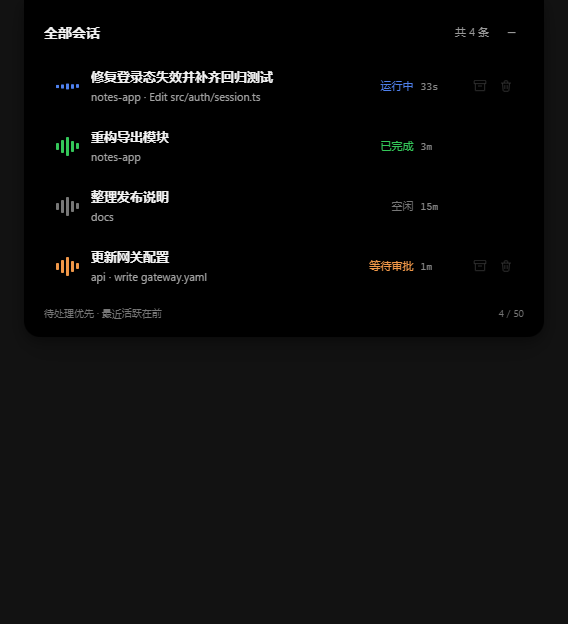
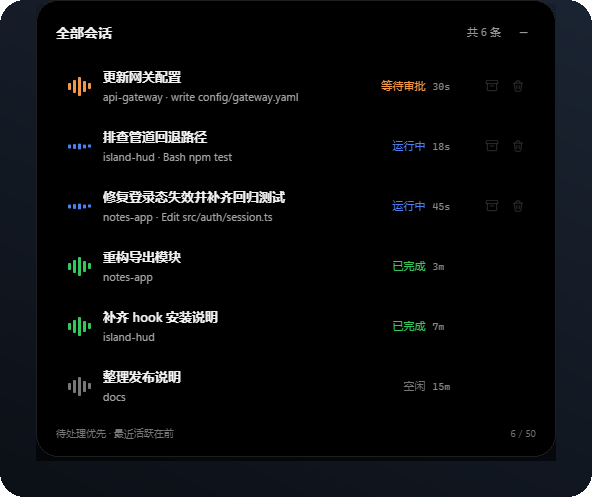
docs: redesign README layout with ZCode support and refreshed screenshots (#5)

diff --git a/README.md b/README.md
@@ -1,38 +1,95 @@
+<div align="center">
+
+<img src="build/icon-256.png" width="88" alt="Island HUD 图标" />
+
 # Island HUD
 
-**Island HUD** 是一个 Windows 顶部悬浮岛式 HUD，当前支持 DeepSeek Harness（下称 DSH）与 ZCode 两类本机编码代理。它以紧凑的岛形卡片常驻屏幕顶部，实时显示会话状态；需要你决策时自动展开审批或问答卡片，确认、拒绝、选择都在岛上完成，不必切回终端窗口。
+**Windows 顶部的悬浮岛式 HUD —— 让 DeepSeek Harness 与 ZCode 的会话、审批和问答，一直待在你的视野边缘。**
 
-Island HUD 由桌面应用与两类集成组成：DSH 通过原生插件接入，ZCode 通过 hook 配置接入。集成把客户端的会话状态、待处理请求与处理结果送给应用，应用通过只监听本机回环地址的通道接收并回传，不经过任何公网服务。
+<p>
+  <a href="https://github.com/Angelyeye/island-hud/actions/workflows/ci.yml"><img src="https://github.com/Angelyeye/island-hud/actions/workflows/ci.yml/badge.svg" alt="CI" /></a>
+  <img src="https://img.shields.io/github/package-json/v/Angelyeye/island-hud?style=flat-square&label=version&color=4d6bfe" alt="version" />
+  <img src="https://img.shields.io/badge/license-AGPL--3.0--only-3da639?style=flat-square" alt="license" />
+  <img src="https://img.shields.io/badge/platform-Windows%2010%20%7C%2011-0078d6?style=flat-square&logo=windows&logoColor=white" alt="Windows" />
+  <img src="https://img.shields.io/badge/node-%E2%89%A5%2024-339933?style=flat-square&logo=node.js&logoColor=white" alt="Node.js" />
+</p>
 
-> **非官方声明**：本项目是独立的社区开源项目，与 DeepSeek 及其他任何产品、公司、团队均无关联，也未获得任何形式的背书、授权或支持。
+<p>
+  <a href="#界面预览">界面预览</a> ·
+  <a href="#支持的客户端">支持的客户端</a> ·
+  <a href="#功能特性">功能特性</a> ·
+  <a href="#快速开始">快速开始</a> ·
+  <a href="#安装集成">安装集成</a> ·
+  <a href="#工作原理与隐私">工作原理与隐私</a> ·
+  <a href="#参与贡献">参与贡献</a>
+</p>
+
+</div>
+
+岛形卡片常驻屏幕顶部，空闲时收成一条窄边。需要你决策时，它自动展开成审批或问答卡片 —— 允许一次、拒绝、或者选一个答案，都在岛上完成，不必切回终端翻找那个正在等你的窗口。
+
+它把 **DeepSeek Harness（下称 DSH，原生插件接入）** 与 **ZCode（hook 配置接入）** 的会话合并在同一个列表里：同一个岛上，两类客户端的运行状态、待处理请求和完成结果一视同仁。
+
+> [!IMPORTANT]
+> **非官方声明**：Island HUD 是独立的社区开源项目，与 DeepSeek、ZCode 及其他任何产品、公司、团队均无关联，也未获得任何形式的背书、授权或支持。
+
+<p align="center">
+  <img src="screenshots/approval.png" width="592" alt="在岛上处理权限请求" />
+  <br />
+  <sub>权限请求直接在岛上等待决策：允许一次、拒绝或返回客户端，会话在后台继续。</sub>
+</p>
+
+---
 
 ## 界面预览
 
-| 总览 | 全部会话 | 设置 |
-| --- | --- | --- |
-| ![总览](screenshots/overview.png) | ![全部会话](screenshots/sessions.png) | ![设置](screenshots/settings.png) |
+<p align="center">
+  <img src="screenshots/overview.png" width="300" alt="会话总览" />
+  &nbsp;&nbsp;
+  <img src="screenshots/sessions.png" width="300" alt="全部会话" />
+  <br />
+  <sub>左：总览卡片，运行中 / 等待审批 / 已完成 / 空闲一眼可见。右：全部会话，待处理优先、最近活跃在前。</sub>
+</p>
+
+<p align="center">
+  <img src="screenshots/settings.png" width="620" alt="集成设置" />
+  <br />
+  <sub>设置页 · 集成：DSH 与 ZCode 各自显示连接状态、版本，安装 / 修复 / 卸载只需一次点击。</sub>
+</p>
+
+## 支持的客户端
+
+| 客户端 | 接入方式 | 会话状态 | 权限审批 | 多题问答 | 会话跳转 |
+| --- | --- | :--: | :--: | :--: | --- |
+| **DeepSeek Harness** | 本机原生插件 | ✅ | ✅ | ✅ 支持 timed 非阻塞 | 精确定位到对应会话 |
+| **ZCode** | 写入 hook 配置 | ✅ | ✅ | ✅ 答案经审批面回传（实验性） | 打开会话所在项目目录 |
+
+两类客户端共用同一套回环通道与同一块岛，列表里按待处理优先、最近活跃在前排序；同一客户端有多个会话时，最多同时展示 50 条。
 
 ## 功能特性
 
-- **会话状态**：展示当前会话、项目与运行状态，空闲时自动收起为窄条。
-- **单次审批**：允许、拒绝、取消权限请求，结果同步回 DSH / ZCode。
-- **多题问答**：单选、多选、自由文本，支持逐题草稿与中文输入法。
-- **精确跳转**：从卡片直接跳到对应的 DSH 会话；ZCode 会话打开其项目目录。
-- **归档与删除**：在本机隐藏不需要的会话，不删除客户端数据，可随时恢复。
-- **多会话浏览**：岛上最多同时展示 50 条会话（待处理与运行中优先），全部会话面板为紧凑滚动列表。
-- **中文设置**：面板密度（520px / 440px 两档）、内容字号、最大高度、主题与实时预览。
-- **非阻塞接续**：面板收起后请求仍在后台等待，可稍后继续回答。
-
-## 系统要求
-
-- Windows 10 / 11（x64）
-- Node.js 24（自带 npm；ZCode 集成的 hook 脚本同样由 `node` 执行）
-- DeepSeek Harness 0.2.1-rc.2（实测版本；更早版本可能无法安装插件）
-- ZCode CLI（hook 已可用即可，无需额外配置）
-- Electron 33.4.11（已在 `package.json` 中精确锁定）
-- 可用的 .NET Framework 4 C# 编译器（用于构建管道助手，Windows 自带）
+| ◉ 一眼看清 | ⚡ 就地决策 | 🗂 顺手管理 |
+| --- | --- | --- |
+| **会话状态**：当前会话、项目、当前工具与运行状态，空闲时自动收起为窄条。<br>**完成提醒**：任务结束给一次轻提示，点开即是本轮摘要。<br>**多会话浏览**：待处理与运行中优先，全部会话面板为紧凑滚动列表。 | **单次审批**：允许一次、拒绝、返回客户端，结果原路回传给 DSH / ZCode。<br>**多题问答**：单选、多选、自由文本，逐题保存草稿，兼容中文输入法。<br>**非阻塞接续**：卡片收起后请求仍在后台等待，稍后回答也不迟。 | **精确跳转**：点卡片直接进入 DSH 会话；ZCode 会话打开其项目目录。<br>**归档与删除**：只在本机隐藏，不删除客户端数据，随时可恢复。<br>**外观可调**：面板密度、字号、最大高度、主题，设置页内实时预览。 |
 
 ## 快速开始
+
+### 直接使用发布版
+
+公开产物见 [Releases](https://github.com/Angelyeye/island-hud/releases)。每个版本提供：
+
+| 文件 | 说明 |
+| --- | --- |
+| `IslandHUD-<版本>-DSH-portable-x64.zip` | 便携版，解压后直接运行 `IslandHUD.exe`，无需安装 Node.js |
+| `IslandHUD-<版本>-DSH-Setup-x64.exe` | NSIS 安装器，当前用户安装，支持覆盖升级与卸载 |
+| `SHA256SUMS.txt` | 所有产物的 SHA-256 校验值 |
+
+> [!NOTE]
+> 目前公开 Release 为 **v0.1.0**（仅 DSH）；**ZCode 支持已合入 `main`（v0.2.0）**，发布产物上线后本节会同步更新。想立刻体验 ZCode，请按下一节从源码运行。
+
+发布产物**尚未做代码签名**，Windows SmartScreen 可能提示未知发布者。请先用 `Get-FileHash` 核对 `SHA256SUMS.txt` 再运行；签名进度见 [代码签名策略](#代码签名策略)。
+
+### 从源码运行
 
 ```powershell
 git clone https://github.com/Angelyeye/island-hud.git
@@ -42,94 +99,153 @@ npm run build:helpers
 npm start
 ```
 
-- `npm ci` 按锁文件安装依赖；若 Electron 二进制下载受限，可临时设置 `$env:ELECTRON_MIRROR` 指向镜像。
-- `npm run build:helpers` 用 `tools/pipe-host.cs` 编译管道助手到 `src/tools/`，源码变更后会自动重建。
-- `npm start` 是**隔离开发模式**：使用独立的 `work/development` 配置与数据目录，不会改动你正在使用的 DSH / ZCode 配置和模型权限。正式使用请在设置中安装对应集成。
+- `npm ci` 严格按锁文件安装依赖；Electron 二进制下载受限时，可临时设置 `$env:ELECTRON_MIRROR` 指向镜像。
+- `npm run build:helpers` 调用 Windows 自带的 .NET Framework 4 编译器，把 `tools/pipe-host.cs` 编译成管道助手；源码变更后会自动重建。
+- `npm start` 是**隔离开发模式**：使用独立的 `work/development` 配置与数据目录，不会改动你正在使用的 DSH / ZCode 配置与模型权限。正式使用请在设置页安装对应集成。
 
-## 安装 DSH 插件
+**环境要求**：Windows 10 / 11（x64）、Node.js 24（自带 npm）、Electron（版本由 `package.json` 精确锁定）、可用的 `csc.exe`（用于构建管道助手）。
 
-1. 启动 Island HUD（开发模式或打包版均可）。
-2. 在任务栏托盘图标上右键，选择「设置…」。
-3. 打开「集成」页，确认 DSH 状态为可连接。
-4. 点击「安装 / 修复」，等待提示写入完成（每次操作都会先备份现有配置）。
-5. 重启 DSH，让插件生效。
+## 安装集成
 
-卸载时回到同一页面点击「卸载集成」，不会删除 DSH 自身的会话数据。
+打开托盘图标右键菜单 →「设置…」，切到 **集成** 页。
 
-## 安装 ZCode 集成
+### DeepSeek Harness
 
-1. 启动 Island HUD，打开「设置… → 集成」页的 ZCode 卡片。
-2. 点击「安装 / 修复」：会把 Island HUD 的 hook 写入 ZCode 用户配置（`~/.zcode/cli/config.json`），写入前自动备份，只改动本集成添加的条目。
-3. 重新发起一个 ZCode 会话即可生效；会话状态、权限审批与提问会出现在岛上，直接在岛上「允许 / 拒绝」或回答。
+1. 确认 DSH 卡片状态为可连接。
+2. 点击「安装 / 修复」，等待写入完成；每次操作都会先备份现有配置。
+3. 正常重启 DSH 让插件生效。
+
+插件按受管方式写入 DSH 配置，卸载时点击「卸载集成」即可，不会删除 DSH 自身的会话数据。DSH 的插件扩展点尚未公开稳定，升级 DSH 后可能需要同步更新插件。
+
+### ZCode
+
+1. 确认 ZCode 卡片可点击，选择「安装 / 修复」。
+2. 安装把本集成添加的 hook 写入 ZCode 用户配置（`~/.zcode/cli/config.json`）：写入前自动备份，只改动本集成添加的条目。
+3. 重新发起一个 ZCode 会话即生效：会话状态、权限审批与提问会出现在岛上。
 4. 卸载时点击「卸载集成」，只移除本集成添加的 hook 条目。
 
 说明：
 
 - hook 脚本由 `node` 执行，请确保 Node.js 在 PATH 中。
-- 审批卡片打开期间，ZCode 的原生命令会等待岛上决策；退出 Island HUD 或长时间不响应时自动回退 ZCode 原生审批，不会卡住会话。
-- 只读工具（Read / Glob / Grep 等）与自动批准模式不会中转，行为与原来一致。
-- 若已安装其他会在 `PermissionRequest` 上阻塞的 hook（例如其他审批桥），两者会同时等待响应；设置页会提示冲突，请按需停用其一。
+- 审批卡片打开期间，ZCode 的原生命令会等待岛上决策；退出 Island HUD 或长时间不响应时自动回退 ZCode 原生审批，不会卡死会话。ZCode 审批 / 问答卡片最长可等待 24 小时。
+- 只读工具（Read / Glob / Grep 等）与自动批准模式不会中转，行为与原生一致。
+- 问答经审批面回传答案（`updatedInput`）属实验性协议，失败时自动回退 ZCode 原生界面。
+- 若还安装了其他会在 `PermissionRequest` 上阻塞的 hook（例如别的审批桥），两者会同时等待响应；设置页会提示冲突，按需停用其一。
 
-## 快捷键
+## 工作原理与隐私
+
+```text
+DSH 插件  ─┐                  ┌─ 顶部悬浮岛（会话 / 审批 / 问答）
+           ├─ 127.0.0.1 回环 ──┤
+ZCode hook ┘  一次性令牌校验    └─ 设置页 / 托盘 / 全局热键
+```
+
+- 桥接服务**只监听 `127.0.0.1`**，不监听局域网或公网地址，也不经过任何第三方服务。
+- 每次启动生成一次性 192-bit 本机令牌，仅保存在当前用户配置目录；请求必须携带令牌。
+- 配置目录与令牌文件的 ACL 在启动时收紧（`icacls`），管道助手使用显式 DACL，避免同机其他用户借用通道。
+- 应用**不收集遥测**，不做崩溃上报；唯一的联网行为是可关闭的更新检查（默认关闭）。
+- 集成安装前自动备份，且只修改本集成自己的条目，不改动你其他的插件或 hook。
+
+本机数据存放于 `%LOCALAPPDATA%\IslandHUD`：
+
+| 内容 | 说明 |
+| --- | --- |
+| 设置与集成描述符 | 解压一个描述文件即可接入，无需手工写端口 |
+| 归档 / 删除记录 | 只记录"在岛上隐藏"的会话键，最多保留 500 条 / 30 天；有新活动会自动恢复 |
+| 日志 | 诊断日志按大小轮转；复制诊断信息前请自行移除本机路径等个人信息 |
+
+## 快捷键与设置
 
 | 快捷键 | 作用 |
 | --- | --- |
-| `Ctrl+Alt+I` | 显示 / 隐藏悬浮岛 |
-| `Ctrl+Alt+O` | 展开 / 收起全部会话面板 |
-| `Esc` | 收起当前展开的面板 |
+| `Ctrl + Alt + I` | 显示 / 隐藏悬浮岛 |
+| `Ctrl + Alt + O` | 展开 / 收起全部会话面板 |
+| `Esc` | 收起当前展开的面板（不会拒绝或取消原请求） |
+| `Ctrl + Enter` | 问答检查页确认提交（输入法组合期间不触发） |
 
-右键托盘图标还可以重新居中、切换显示器、设置全屏自动隐藏、打开日志目录或复制诊断信息。
+托盘右键菜单还可以：重新居中、切换显示器、设置全屏自动隐藏、打开日志目录、复制诊断信息。设置页包含 **通用 / 显示与动效 / 集成 / 快捷键 / 诊断与关于** 五页，外观调整带实时预览。
+
+## 常见问题
+
+<details>
+<summary><b>ZCode 卡片一直显示「等待连接」？</b></summary>
+
+hook 由 `node` 执行：先确认 `node` 在 PATH 中，再重新发起一个 ZCode 会话（hook 在会话启动时加载）。如果刚装完还没开新会话，卡片会停留在等待状态，这是预期行为。
+</details>
+
+<details>
+<summary><b>为什么 Windows 提示「未知发布者」？</b></summary>
+
+当前产物未做代码签名，SmartScreen 可能拦截首次运行。请先核对 `SHA256SUMS.txt` 中的哈希，再选择"仍要运行"。项目正在申请 SignPath Foundation 的免费开源签名，通过后发布产物会逐步签名。
+</details>
+
+<details>
+<summary><b>会不会把会话内容上传到云端？</b></summary>
+
+不会。集成与应用之间只走本机回环通道；项目没有遥测和云同步。唯一的对外请求是可关闭的更新检查（只拉取版本清单）。
+</details>
+
+<details>
+<summary><b>归档或删除会话，会删掉客户端的数据吗？</b></summary>
+
+不会。归档与删除只影响岛上的显示：记录保存在本机，随时可在「诊断与关于」里恢复；客户端自己的会话文件、历史与 profile 都不变。
+</details>
+
+<details>
+<summary><b>支持 macOS / Linux、Claude Code 或其他客户端吗？</b></summary>
+
+当前只支持 Windows 10 / 11 上的 DSH 与 ZCode。其他系统与客户端不在支持范围内，也没有排期承诺。
+</details>
 
 ## 已知限制
 
-- DSH 的插件扩展点尚未公开稳定，DSH 升级后可能需要同步更新插件。
-- ZCode 集成依赖其 hook 配置格式，ZCode 升级后可能需要同步更新；问答经审批面回传属实验性协议。
-- 构建产物未做代码签名，Windows SmartScreen 可能提示风险。
+- DSH 的插件扩展点尚未公开稳定，DSH 升级后可能需要同步更新插件；ZCode 集成同理依赖其 hook 配置格式。
+- ZCode 问答经审批面回传属实验性协议，失败时回退原生界面。
+- 产物未签名，SmartScreen 可能提示风险。
 - 项目处于早期实验阶段，接口与界面仍可能调整。
-- 只支持 Windows + DSH / ZCode 组合；其他操作系统与其他客户端不在支持范围内。
-- 自动化测试覆盖 Node 层逻辑，GUI 与托盘行为需要在本地桌面手动验证。
+- 自动化测试覆盖 Node 层逻辑；GUI 与托盘行为需要真实桌面手动验证。
 
-## 目录结构
+## 测试与目录结构
+
+```powershell
+npm test          # Node 层单元与集成测试，CI 只跑这一项
+npm run test:ui   # 需要真实桌面的 GUI 检查
+npm run test:tray # 托盘菜单检查
+```
+
+<details>
+<summary><b>目录结构</b></summary>
 
 ```text
 island-hud/
 ├─ src/
-│  ├─ main.js            Electron 主进程：窗口、托盘、悬浮岛与全局快捷键
-│  ├─ preload.js         渲染进程与主进程之间的受控桥
-│  ├─ app/               应用生命周期、设置、集成管理与窗口行为
-│  ├─ bridge/            本机回环服务，接收并回传集成请求
-│  ├─ dsh/               DSH 适配层、会话管理与导航
-
-│  ├─ integrations/      DSH 插件包与 ZCode hook 的构建素材
-│  ├─ logs/              诊断日志
-│  ├─ probe/             测试与开发启动入口
-│  ├─ renderer/          悬浮岛与设置页界面
-│  ├─ sessions/          会话存储、归档与可见性
-│  ├─ tools/             运行时助手二进制（构建产物）
-│  └─ update/            更新检查
-├─ tools/                构建、打包、测试与发布脚本（含 C# 助手源码）
-├─ test/                 Node 层测试
-├─ screenshots/          README 界面截图
-├─ build/                打包配置与图标素材
-└─ integrations/         生成的 DSH 插件包与 ZCode hook 客户端
+│  ├─ main.js              Electron 主进程：窗口、托盘、悬浮岛与全局快捷键
+│  ├─ preload.js           渲染进程与主进程之间的受控桥
+│  ├─ app/                 应用生命周期、设置、DSH 与 ZCode 集成管理
+│  ├─ bridge/              本机回环服务，接收并回传集成请求
+│  ├─ dsh/                 DSH 适配层、会话管理与导航
+│  ├─ integrations/        DSH 插件包与 ZCode hook 的构建素材
+│  ├─ renderer/            悬浮岛与设置页界面
+│  ├─ sessions/            会话存储、归档与可见性
+│  ├─ tools/               运行时助手二进制（构建产物）
+│  └─ update/              更新检查
+├─ integrations/           生成的 DSH 插件包与 ZCode hook 客户端
+├─ tools/                  构建、打包、测试与发布脚本（含 C# 助手源码）
+├─ test/                   Node 层测试
+├─ screenshots/            README 界面截图
+├─ build/                  打包配置与图标素材
+└─ .github/                CI、DCO、Issue 模板与安全策略
 ```
-
-## 测试
-
-```powershell
-npm test
-```
-
-`npm test` 运行 Node 层的单元与集成测试，不需要打开窗口，CI 也只跑这一项。需要真实桌面环境的 GUI 与托盘检查请在本地执行：
-
-```powershell
-npm run test:ui
-npm run test:tray
-```
+</details>
 
 ## 参与贡献
 
-欢迎提交问题与改进。开始之前请阅读 [贡献指南](.github/CONTRIBUTING.md)，提交的每个 commit 需要包含 `Signed-off-by` 行（DCO）；安全问题请按 [安全策略](.github/SECURITY.md) 私下上报，不要公开提交带令牌、日志或本机路径的内容。
+欢迎提交问题与改进，也欢迎直接开 PR：
+
+- 提交前请读 [贡献指南](.github/CONTRIBUTING.md)；每个 commit 需要包含 `Signed-off-by` 行（DCO，`git commit -s` 即可）。
+- `main` 是受保护分支，改动通过 PR 合入，并需要 `Node tests (Windows)`、`Secret scan`、`DCO` 三项检查通过。
+- 安全问题请按 [安全策略](.github/SECURITY.md) 通过 Private Vulnerability Reporting 私下上报，不要在公开 Issue 中披露细节。
+- 请勿提交令牌、证书、本机路径、真实会话记录或第三方素材。
 
 ## 代码签名策略
 
@@ -144,6 +260,14 @@ Free code signing provided by [SignPath.io](https://about.signpath.io), certific
 
 本项目以 **GNU Affero General Public License v3.0**（AGPL-3.0-only）发布，版权归 **Angelyeye** 所有，完整条款见 [LICENSE](LICENSE)。第三方依赖及其许可见 [NOTICE](NOTICE)；其中 `integrations/dsh/preset-standard.patch.yml` 基于 DeepSeek DSH 的 MIT 许可 preset 修改，版权与许可声明见该文件头及 NOTICE。
 
+更新记录见 [CHANGELOG.md](CHANGELOG.md)。
+
 ---
 
+<div align="center">
+
 [![](https://img.shields.io/badge/powered_by-dsh-4D6BFE?style=flat-square&logo=deepseek&logoColor=white)](https://github.com/deepseek-ai/deepseek-harness)
+
+<sub>如果这个小岛对你的工作流有用，欢迎点一个 ⭐ Star。</sub>
+
+</div>
